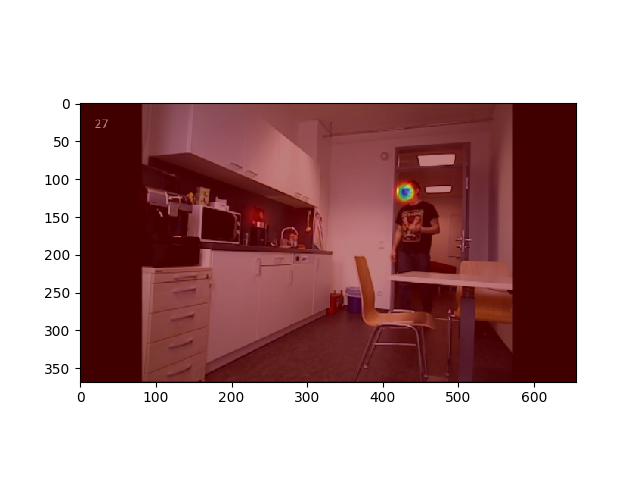
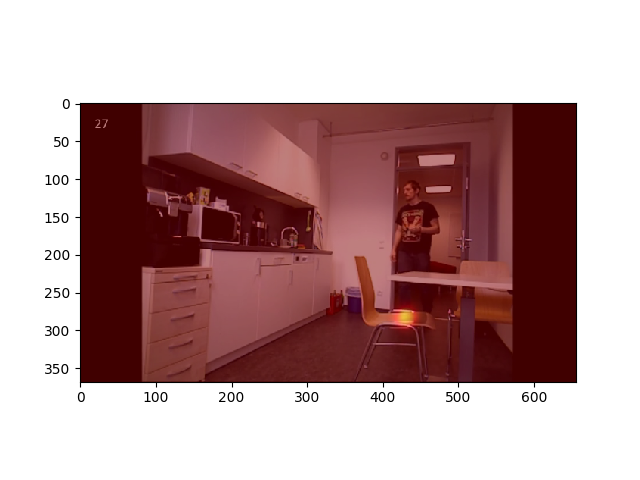
torso normal runs.

diff --git a/orientation_estimation.py b/orientation_estimation.py
@@ -1,9 +1,11 @@
 import cv2
 import sys
+import time
 import imageio
 import ipdb
 import numpy as np
 import matplotlib.pyplot as plt
+from mpl_toolkits.mplot3d import Axes3D
 sys.path.append('/usr/local/python')
 import openpose.pyopenpose as op
 
@@ -29,36 +31,43 @@ vid = imageio.get_reader(filename, 'ffmpeg')
 vid_depth = imageio.get_reader(filename_depth, 'ffmpeg')
 
 
-plot = True
+plot = False
 write_movie = True
 if write_movie:
     writer = imageio.get_writer('./orientation.mp4', fps=25)
 
 for frame_no, frame in enumerate(vid):
 
+    start = time.time()
+
     depth_frame = vid_depth.get_next_data()[..., 0]
     depth_frame_norm = depth_frame/np.max(depth_frame)
+
     datum = op.Datum()
     datum.cvInputData = frame
     opWrapper.emplaceAndPop([datum])
     # print("Body keypoints: \n" + str(datum.poseKeypoints))
     # cv2.imshow("OpenPose 1.5.0 - Tutorial Python API", datum.cvOutputData)
-    print(frame_no)
-    if frame_no > 25:
 
-        plt.imshow(frame)
-        plt.savefig('frame')
+    stop = time.time()
+    print('frame', frame_no, 'processed. In:', stop-start)
+
+    if frame_no > 0:
+
+        # plt.imshow(frame)
+        # plt.savefig('frame')
 
         heatmaps = datum.poseHeatMaps.copy()
         heatmaps = (heatmaps).astype(dtype='uint8')
 
+        joint_total = 25
         ls_heat = heatmaps[2, :, :]
         rs_heat = heatmaps[5, :, :]
         rh_heat = heatmaps[9, :, :]
         lh_heat = heatmaps[12, :, :]
 
-        depth = cv2.resize(depth_frame, (heatmaps.shape[2],
-                                         heatmaps.shape[1]))
+        depth_frame_norm = cv2.resize(depth_frame_norm, (heatmaps.shape[2],
+                                                         heatmaps.shape[1]))
 
         if plot:
             outputImageF = (datum.inputNetData[0].copy())[0, :, :, :] + 0.5
@@ -68,7 +77,7 @@ for frame_no, frame in enumerate(vid):
             outputImageF = (outputImageF*255.).astype(dtype='uint8')
 
             num_maps = heatmaps.shape[0]
-            for counter in range(num_maps):
+            for counter in range(joint_total):
                 # map position - joint
                 # 2,  Left-Shoulder,
                 # 5,  Right-Shoulder,
@@ -81,8 +90,97 @@ for frame_no, frame in enumerate(vid):
                 print('counter', counter)
                 plt.imshow(combined)
                 plt.savefig('combined.png')
-                ipdb.set_trace()
+                # ipdb.set_trace()
                 counter += 1
-                counter = counter % num_maps
 
-        ipdb.set_trace()
+        # compute joint positions.]
+        joints_xyz = []
+        zero_canvas = heatmaps[0, :, :]*0.0
+        # plt.imshow(to_plot)
+        # plt.show()
+        for joint_no in range(joint_total):
+            # print(joint_no)
+            # zero_canvas = zero_canvas + heatmap[:, :, joint_no]
+            # plt.imshow(zero_canvas)
+            # plt.show()
+            nx, ny = heatmaps.shape[1:]
+            x = np.linspace(0, 1, nx)
+            y = np.linspace(0, 1, ny)
+            x_grid, y_grid = np.meshgrid(y, x)
+            y_grid = np.flipud(y_grid)
+
+            def mean_coordinate(coords, heat, thre1=0.1):
+                heat = np.where(heat > thre1, heat, 0)
+                coords = coords * heat
+                return np.sum(coords.flatten())/np.sum(heat.flatten())
+
+            mean_x = mean_coordinate(x_grid, heatmaps[joint_no, :, :])
+            mean_y = mean_coordinate(y_grid, heatmaps[joint_no, :, :])
+            mean_z = mean_coordinate(depth_frame_norm, heatmaps[joint_no, :, :])
+            joints_xyz.append((mean_x, mean_y, mean_z))
+            joints_xyz_array = np.array(joints_xyz)
+            # plt.plot(joints_xyz_array[:, 0], joints_xyz_array[:, 1], '.')
+            # plt.show()
+
+        joints_xyz = np.array(joints_xyz)
+
+        # plt.plot(joints_xyz[1:14, 0], joints_xyz[1:14, 1], '.')
+        # plt.show()
+
+        # ipdb.set_trace()
+        fig = plt.figure()
+        ax = fig.add_subplot(121)
+        ax.imshow(datum.cvOutputData)
+
+        ax = fig.add_subplot(122, projection='3d')
+
+        left_shoulder = joints_xyz[5, :]
+        right_shoulder = joints_xyz[2, :]
+        left_hip = joints_xyz[11, :]
+        right_hip = joints_xyz[8, :]
+
+        shoulder_hip_rectangle = np.array([left_hip, right_hip,
+                                           left_shoulder, right_shoulder])
+        ax.scatter(shoulder_hip_rectangle[:, 0],
+                   shoulder_hip_rectangle[:, 2],
+                   shoulder_hip_rectangle[:, 1], c='b')
+
+        # compute all 4 normal vectors for the plane.
+        lh_rh = left_hip - right_hip
+        lh_ls = left_hip - left_shoulder
+        lh_rh_ls_n = np.cross(lh_rh, lh_ls)
+
+        rh_rs = right_hip - right_shoulder
+        rh_lh = right_hip - left_hip
+        rh_lh_rs_n = np.cross(rh_rs, rh_lh)
+
+        ls_lh = left_shoulder - left_hip
+        ls_rs = left_shoulder - right_shoulder
+        ls_rh_ls_n = np.cross(ls_lh, ls_rs)
+
+        rs_ls = right_shoulder - left_shoulder
+        rs_rh = right_shoulder - right_hip
+        rs_ls_rh_n = np.cross(rs_ls, rs_rh)
+
+        center = np.mean(shoulder_hip_rectangle, axis=0)
+        normals = np.array([lh_rh_ls_n, rh_lh_rs_n, ls_rh_ls_n, rs_ls_rh_n])
+        normal = np.mean(normals, axis=0)
+        tau = 3
+        norm_vec = np.array([center, center + tau*normal])
+        ax.plot(norm_vec[:, 0],
+                norm_vec[:, 2],
+                norm_vec[:, 1], c='r')
+        ax.scatter(norm_vec[-1, 0],
+                   norm_vec[-1, 2],
+                   norm_vec[-1, 1], c='r', s=60)
+
+        if write_movie:
+            plt.axis('off')
+            fig.canvas.draw()
+            # ipdb.set_trace()
+            to_plot = np.fromstring(fig.canvas.tostring_rgb(), dtype=np.uint8, sep='')
+            to_plot = to_plot.reshape(fig.canvas.get_width_height()[::-1] + (3,))
+            writer.append_data(to_plot)
+            plt.close()
+        else:
+            plt.show()
